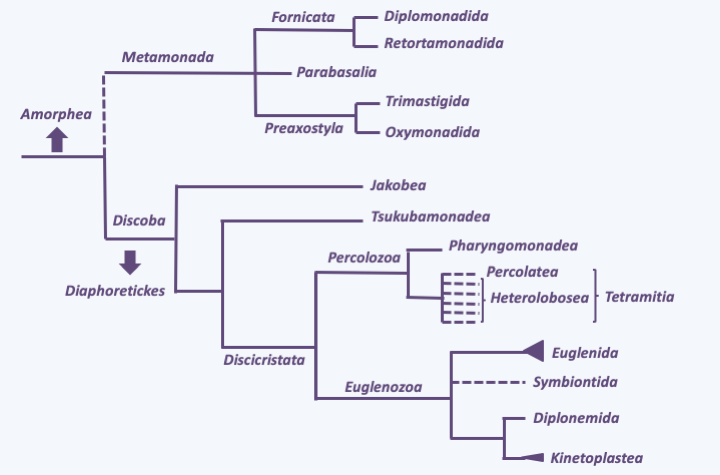
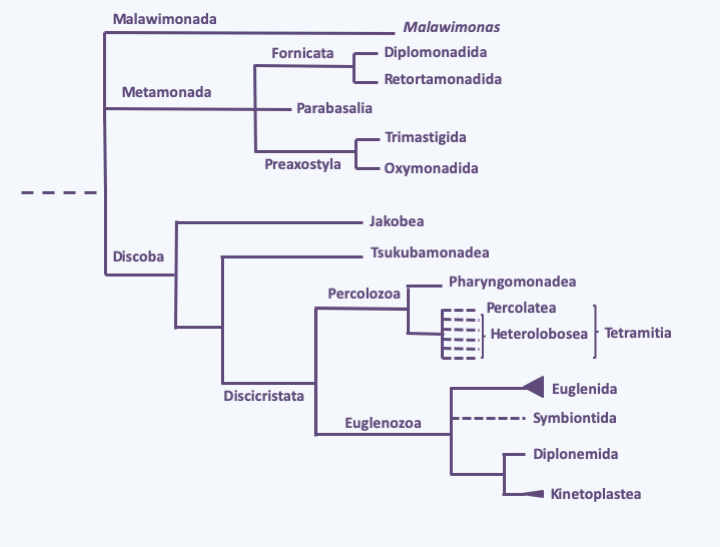
Proof-read excavates

diff --git a/book/Part2/phylogenetic_classification/sections/Amoebozoa.md b/book/Part2/phylogenetic_classification/sections/Amoebozoa.md
@@ -13,7 +13,7 @@ The second great line of [Amorphea]({{ site.baseurl }}{% link book/Part2/phyloge
 
 {% include figure.html figname="184.amoeba" caption="<i>Amoeba proteus</i>, a typical Amoebozoa." %}
 
-Molecular phylogenies separate the Amoebozoa into two sub-branches, the [Conosa](#conosa) and the [Lobosa](#lobosa) ({%- include fignum.html fn="185.amoeba-phylo" -%}). Classification is difficult, becuase of a lack of morphological characters along with numerous convergent evolutions relating to the appearance of multicellularity, or the form and composition of the tests. Synapomorphies for each of the two sub-branches are rare. [Conosa](#conosa) can still differentiate flagella while [Lobosa](#lobosa) live only as amoeba. For each of the sub-branches, the independent evolutionary lines are numerous and only the most important are indicated in {%- include fignum.html fn="185.amoeba-phylo" -%}.
+Molecular phylogenies separate the Amoebozoa into two sub-branches, the [Conosa](#conosa) and the [Lobosa](#lobosa) ({%- include fignum.html fn="185.amoeba-phylo" -%}). Classification is difficult, because of a lack of morphological characters along with numerous convergent evolutions relating to the appearance of multicellularity, or the form and composition of the tests. Synapomorphies for each of the two sub-branches are rare. [Conosa](#conosa) can still differentiate flagella while [Lobosa](#lobosa) live only as amoeba. For each of the sub-branches, the independent evolutionary lines are numerous and only the most important are indicated in &nbsp;{%- include fignum.html fn="185.amoeba-phylo" -%}.
 
 {% include figure.html figname="185.amoeba-phylo" caption="Phylogeny of Amoebozoa." %}
 
@@ -35,7 +35,7 @@ The subphylum of Conosa contains three classes: Variosea, Archamoeba and Mycetoz
 
 <br>
 ### Archamoeba
-The Archamoeba class contains amoeba which live anaerobically and therefore no longer breathe. This transition of habitat was accompanied by regression of the mitochondria until it persisted in some species only as a mitosome. Most Archamoeba have a flagellum ({%- include fignum.html fn="189.archameoba" -%}), but this is not very active because the dyneins allowing movement are incomplete. In some species, flagellar disorganization is even more pronounced with, for example, basal bodies having only doublets instead of triplets of microtubules. In the _Entamoeba_, the flagellum is absent and left no trace. These phagotrophs live either in sediments loaded with organic matter, or in commensal or parasitic association with animals. This is the case with _Entamoeba gingivalis_ (Figure 189) which lives in our mouth, as well as _Entamoeba intestinalis_, and these species disappear in our intestines as commensals. _Entamoeba histolytica_, on the contrary, is a pathogen which can cause serious fatal dysentery. Usually the infection is mild because it remains localized in the intestine. However, _Entamoeba histolytica_ can enter the blood vessels and cause bloody diarrhea. Once the intestinal barrier is crossed, the amoeba can colonize other parts of the body such as the lungs, brain and especially the liver where it will cause abscesses. The infection then becomes very dangerous and even fatal. It is estimated that 10% of the human population is infected with _Entamoeba histolytica_ which is the third leading cause of mortality among parasites [**_Translators note: is this correct?_**], causing approximately 50,000 to 100,000 deaths per year. They have a life cycle devoid of sexuality ({%- include fignum.html fn="190.entamoeba" -%}).
+The Archamoeba class contains amoeba which live anaerobically and therefore no longer breathe. This transition of habitat was accompanied by regression of the mitochondria until it persisted in some species only as a mitosome. Most Archamoeba have a flagellum ({%- include fignum.html fn="189.archameoba" -%}), but this is not very active because the dyneins allowing movement are incomplete. In some species, flagellar disorganization is even more pronounced with, for example, basal bodies having only doublets instead of triplets of microtubules. In the _Entamoeba_, the flagellum is absent and left no trace. These phagotrophs live either in sediments loaded with organic matter, or in commensal or parasitic association with animals. This is the case with _Entamoeba gingivalis_ (Figure 189) which lives in our mouth, as well as _Entamoeba intestinalis_, and these species disappear in our intestines as commensals. _Entamoeba histolytica_, on the contrary, is a pathogen which can cause serious fatal dysentery. Usually the infection is mild because it remains localized in the intestine. However, _Entamoeba histolytica_ can enter the blood vessels and cause bloody diarrhea. Once the intestinal barrier is crossed, the amoeba can colonize other parts of the body such as the lungs, brain and especially the liver where it will cause abscesses. The infection then becomes very dangerous and even fatal. It is estimated that 10% of the human population is infected with _Entamoeba histolytica_ which is the third leading cause of mortality among parasites, causing approximately 50,000 to 100,000 deaths per year. They have a life cycle devoid of sexuality ({%- include fignum.html fn="190.entamoeba" -%}).
 
 {% include figure.html figname="189.archameoba" caption="Some representatives of the Archamoeba class." %}
 

diff --git a/book/Part2/phylogenetic_classification/sections/Excavata.md b/book/Part2/phylogenetic_classification/sections/Excavata.md
@@ -9,9 +9,9 @@ _Jump to section:_
 
 <br>
 ## Introduction
-It is likely that no other lineage of eukaryotes has posed such a problem for biologists as that of the "Excavata". Indeed, it has encompassed various branches over time and is currently being dismembered because molecular phylogenies show that some of the groups it encompassed, including Malawimonadea and Diphyllatea, are related to [Opisthokonta]({{ site.baseurl }}{% link book/Part2/phylogenetic_classification/sections/Opisthokonta.md %}) and [Amoebozoa]({{ site.baseurl }}{% link book/Part2/phylogenetic_classification/sections/Amoebozoa.md %}). So they joined the [Amorphea]({{ site.baseurl }}{% link book/Part2/phylogenetic_classification/sections/Amorphea.md %}). One of the two branches that make up the current Excavata, that of the Discoba, is related to the [Diaphoretickes]({{ site.baseurl }}{% link book/Part2/phylogenetic_classification/sections/Diaphoretickes.md %}); the second, that of the Metamonada, due to its peculiar biology, is not yet clearly affiliated with either the [Amorphea]({{ site.baseurl }}{% link book/Part2/phylogenetic_classification/sections/Amorphea.md %}) or the [Diaphoretickes]({{ site.baseurl }}{% link book/Part2/phylogenetic_classification/sections/Diaphoretickes.md %}). The main reason for the uncertainties about the phylogeny of the "Excavata" is probably due to their very great genetic diversity. Indeed, this super-branch, initially defined on morphological criteria, seems in fact to encompass the "most primitive" eukaryotes, direct descendants of the ancestor of eukaryotes. The [Amorphea]({{ site.baseurl }}{% link book/Part2/phylogenetic_classification/sections/Amorphea.md %}) and [Diaphoretickes]({{ site.baseurl }}{% link book/Part2/phylogenetic_classification/sections/Diaphoretickes.md %}) are said to have derived from particular lines of "Excavata" ({%- include fignum.html fn="198.excavate-phylo" -%}). Confirming this, cell biologists consider the flagella of these organisms to be the least "derived" from the ancestral type. Most Excavata species have a ventral groove where food is phagocytosed, a trait they share with Malawimonadea and Diphyllatea. {%- include fignum.html fn="198.excavate-phylo" -%} gives the current phylogeny.
+It is likely that no other lineage of eukaryotes has posed such a problem for biologists as that of the "Excavata". The excavates comprise three groups: Metamonada, Malawinmonada, and Discoba. The three groups were originally considered to be monophyletic based on the presence of a ventral groove where food is phagocytosed. However, molecular phylogenies show that the exacavates are not monophyletic, and the the relationships of the three sub-clades to other eukaryotes remain uncertain. The main reason for the uncertainties about the phylogeny of the "Excavata" is probably due to their very great genetic diversity.&nbsp; {%- include fignum.html fn="198.excavate-phylo" -%}&nbsp; gives the current phylogeny.
 
-{% include figure.html figname="198.excavate-phylo" caption="Phylogeny of Excavata. The arrows indicate the most probable branching points of Amorphea and Diaphoretickes." %}
+{% include figure.html figname="198.excavate-phylo" caption="Phylogeny of Excavata." %}
 
 
 <br>
